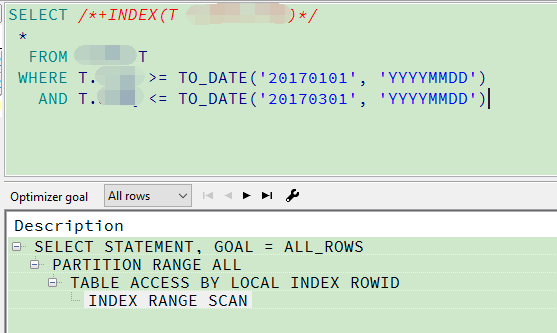
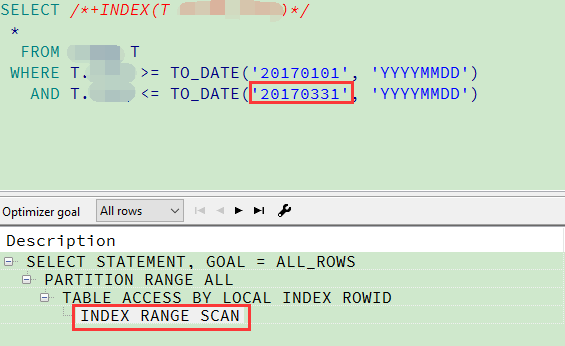
Oracle Hint使用实例

Changed region(s): [[0.0, 0.0, 1.0, 1.0]]

diff --git a/oracle/Oracle Hint使用实例.md b/oracle/Oracle Hint使用实例.md
@@ -27,7 +27,7 @@ SELECT /*+INDEX(T INDEX_DATE_TIME)*/
  *
   FROM TABLE T
  WHERE T.DATE_TIME >= TO_DATE('20170101', 'YYYYMMDD')
-   AND T.DATE_TIME <= TO_DATE('20170301', 'YYYYMMDD')
+   AND T.DATE_TIME <= TO_DATE('20170331', 'YYYYMMDD')
 ```
 结果如下：<br>
 ![](../static/41.png)
